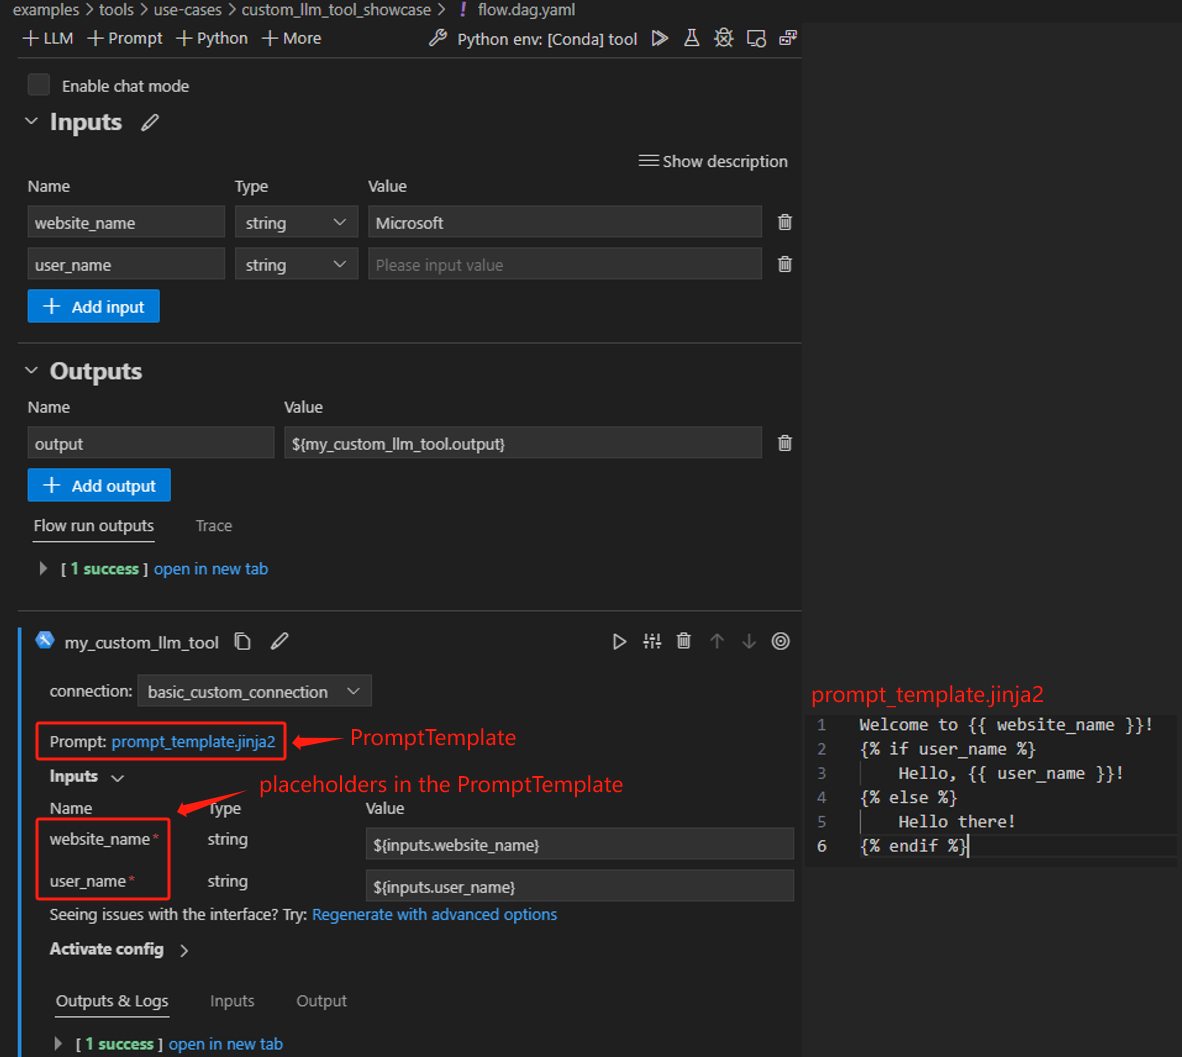
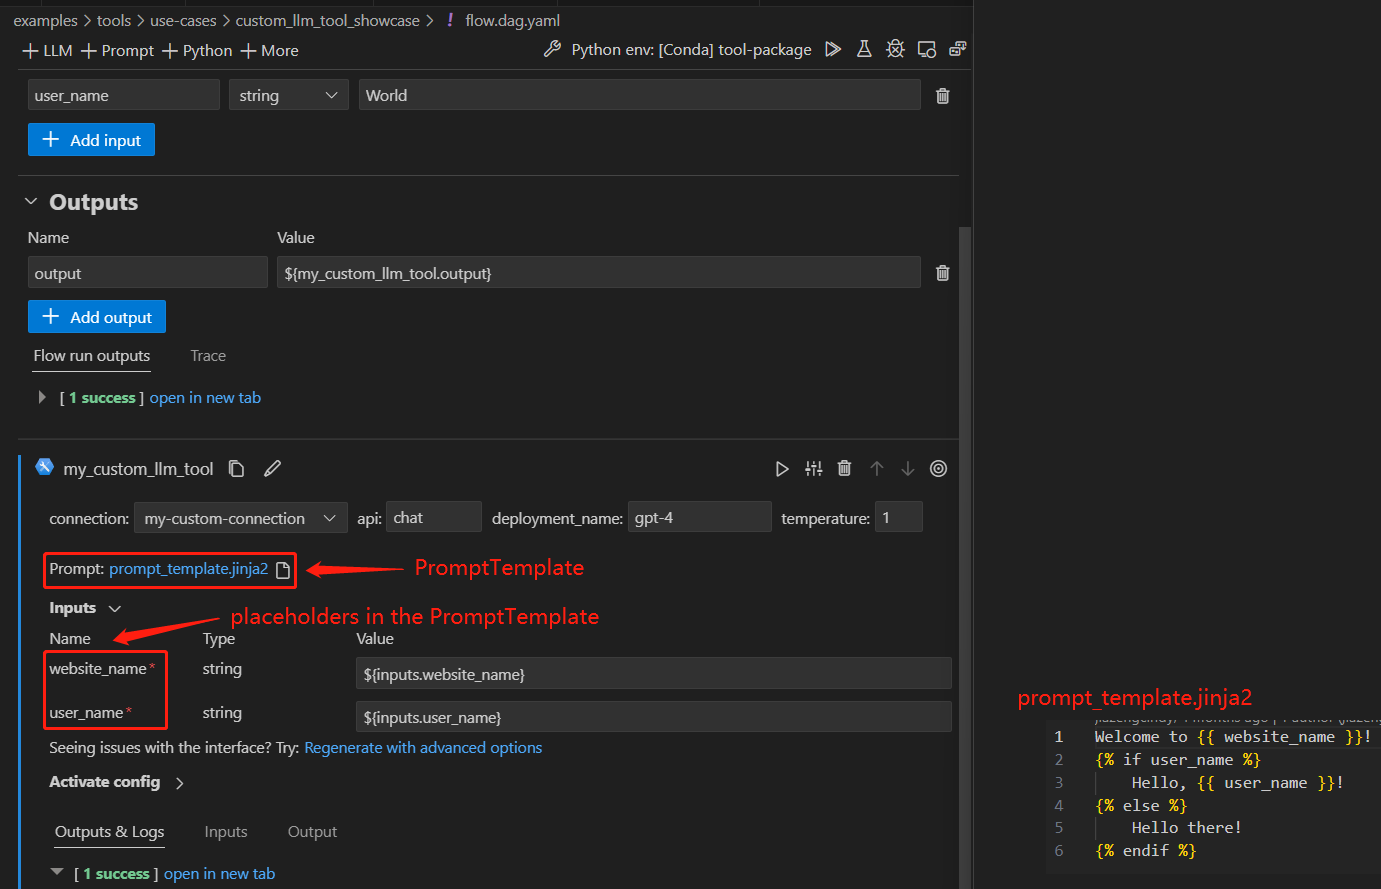
[Internal] Add doc for text box size and update the custom llm tool example (#1749)
# Description

Add doc for text box size and update the custom llm tool example.

# All Promptflow Contribution checklist:
- [X] **The pull request does not introduce [breaking changes].**
- [ ] **CHANGELOG is updated for new features, bug fixes or other
significant changes.**
- [X] **I have read the [contribution guidelines](../CONTRIBUTING.md).**
- [ ] **Create an issue and link to the pull request to get dedicated
review from promptflow team. Learn more: [suggested
workflow](../CONTRIBUTING.md#suggested-workflow).**

## General Guidelines and Best Practices
- [X] Title of the pull request is clear and informative.
- [X] There are a small number of commits, each of which have an
informative message. This means that previously merged commits do not
appear in the history of the PR. For more information on cleaning up the
commits in your PR, [see this
page](https://github.com/Azure/azure-powershell/blob/master/documentation/development-docs/cleaning-up-commits.md).

### Testing Guidelines
- [ ] Pull request includes test coverage for the included changes.

---------

diff --git a/examples/tools/tool-package-quickstart/my_tool_package/tools/tool_with_custom_llm_type.py b/examples/tools/tool-package-quickstart/my_tool_package/tools/tool_with_custom_llm_type.py
@@ -5,7 +5,14 @@ from promptflow.contracts.types import PromptTemplate
 
 
 @tool
-def my_tool(connection: CustomConnection, prompt: PromptTemplate, **kwargs) -> str:
+def my_tool(
+    connection: CustomConnection,
+    api: str,
+    deployment_name: str,
+    temperature: float,
+    prompt: PromptTemplate,
+    **kwargs
+) -> str:
     # Replace with your tool code, customise your own code to handle and use the prompt here.
     # Usually connection contains configs to connect to an API.
     # Not all tools need a connection. You can remove it if you don't need it.

diff --git a/examples/tools/tool-package-quickstart/tests/test_tool_with_custom_llm_type.py b/examples/tools/tool-package-quickstart/tests/test_tool_with_custom_llm_type.py
@@ -19,7 +19,13 @@ def my_custom_connection() -> CustomConnection:
 
 class TestToolWithCustomLLMType:
     def test_tool_with_custom_llm_type(self, my_custom_connection):
-        result = my_tool(my_custom_connection, "Hello {{text}}", text="Microsoft")
+        result = my_tool(
+            my_custom_connection,
+            "my-api",
+            "my-deployment-name",
+            0,
+            "Hello {{text}}",
+            text="Microsoft")
         assert result == "Hello Microsoft"
 
 

diff --git a/examples/tools/tool-package-quickstart/setup.py b/examples/tools/tool-package-quickstart/setup.py
@@ -4,7 +4,7 @@ PACKAGE_NAME = "my-tools-package"
 
 setup(
     name=PACKAGE_NAME,
-    version="0.0.12",
+    version="0.0.13",
     description="This is my tools package",
     packages=find_packages(),
     entry_points={

diff --git a/docs/how-to-guides/develop-a-tool/customize_an_llm_tool.md b/docs/how-to-guides/develop-a-tool/customize_an_llm_tool.md
@@ -2,7 +2,7 @@
 In this document, we will guide you through the process of customizing an LLM tool, allowing users to seamlessly connect to a large language model with prompt tuning experience using a `PromptTemplate`.
 
 ## Prerequisites
-- Please ensure that your [Prompt flow for VS Code](https://marketplace.visualstudio.com/items?itemName=prompt-flow.prompt-flow) is updated to version 1.2.0 or later.
+- Please ensure that your [Prompt flow for VS Code](https://marketplace.visualstudio.com/items?itemName=prompt-flow.prompt-flow) is updated to version 1.8.0 or later.
 
 ## How to customize an LLM tool
 Here we use [an existing tool package](https://github.com/microsoft/promptflow/tree/main/examples/tools/tool-package-quickstart/my_tool_package) as an example. If you want to create your own tool, please refer to [create and use tool package](create-and-use-tool-package.md).  
@@ -19,8 +19,17 @@ Here we use [an existing tool package](https://github.com/microsoft/promptflow/t
 
 
     @tool
-    def my_tool(connection: CustomConnection, prompt: PromptTemplate, **kwargs) -> str:
-        # Customize your own code to use the connection and prompt here.
+    def my_tool(
+        connection: CustomConnection,
+        api: str,
+        deployment_name: str,
+        temperature: float,
+        prompt: PromptTemplate,
+        **kwargs
+    ) -> str:
+        # Replace with your tool code, customise your own code to handle and use the prompt here.
+        # Usually connection contains configs to connect to an API.
+        # Not all tools need a connection. You can remove it if you don't need it.
         rendered_prompt = Template(prompt, trim_blocks=True, keep_trailing_newline=True).render(**kwargs)
         return rendered_prompt
     ```
@@ -30,7 +39,7 @@ Here we use [an existing tool package](https://github.com/microsoft/promptflow/t
     ```
     python <promptflow github repo>\scripts\tool\generate_package_tool_meta.py -m <tool_module> -o <tool_yaml_path> -t "custom_llm"
     ```
-    Here we use [an existing tool](https://github.com/microsoft/promptflow/blob/main/examples/tools/tool-package-quickstart/my_tool_package/yamls/tool_with_custom_llm_type.yaml) as an example.
+    Here we use [an existing tool](https://github.com/microsoft/promptflow/blob/main/examples/tools/tool-package-quickstart/my_tool_package/tools/tool_with_custom_llm_type.py) as an example.
     ```
     cd D:\proj\github\promptflow\examples\tools\tool-package-quickstart
 
@@ -47,9 +56,18 @@ Here we use [an existing tool package](https://github.com/microsoft/promptflow/t
     module: my_tool_package.tools.tool_with_custom_llm_type
     function: my_tool
     inputs:
-        connection:
+      connection:
         type:
-            - CustomConnection
+          - CustomConnection
+      api:
+        type:
+          - string
+      deployment_name:
+        type:
+          - string
+      temperature:
+        type:
+          - double
     ```
 
 ## Use the tool in VS Code
@@ -58,3 +76,46 @@ Follow the steps to [build and install your tool package](create-and-use-tool-pa
 Here we use an existing flow to demonstrate the experience, open [this flow](https://github.com/microsoft/promptflow/blob/main/examples/tools/use-cases/custom_llm_tool_showcase/flow.dag.yaml) in VS Code extension.  
 - There is a node named "my_custom_llm_tool" with a prompt template file. You can either use an existing file or create a new one as the prompt template file.  
 ![use_my_custom_llm_tool](../../media/how-to-guides/develop-a-tool/use_my_custom_llm_tool.png)
+
+## FAQs
+### Can I customize text box size for my tool inputs?
+Yes, you can add `ui_hints.text_box_size` field for your tool inputs. There are 4 sizes available which range from extra small to large as `xs`, `sm`, `md`, `lg`. The table below provides detailed information about these sizes:
+| Value | Description | UI display size |
+|-------|-------------|------|
+| xs | extra small | 40px |
+| sm | small | 80px |
+| md | medium | 130px |
+| lg | large | 180px |
+
+You can choose to use different values for your tool inputs based on their expected value length. Take the following yaml as example:
+```yaml
+my_tool_package.tools.tool_with_custom_llm_type.my_tool:
+  name: My Custom LLM Tool
+  description: This is a tool to demonstrate how to customize an LLM tool with a PromptTemplate.
+  type: custom_llm
+  module: my_tool_package.tools.tool_with_custom_llm_type
+  function: my_tool
+  inputs:
+    connection:
+      type:
+        - CustomConnection
+      ui_hints:
+        text_box_size: lg
+    api:
+      type:
+      - string
+      ui_hints:
+        text_box_size: sm
+    deployment_name:
+      type:
+      - string
+      ui_hints:
+        text_box_size: md
+    temperature:
+      type:
+      - double
+      ui_hints:
+        text_box_size: xs
+```
+When you use the tool in [this example flow](https://github.com/microsoft/promptflow/blob/main/examples/tools/use-cases/custom_llm_tool_showcase/flow.dag.yaml), you could see the sizes of the input text boxes are displayed as the set values.
+![use_custom_llm_tool_with_ui_hints](../../media/how-to-guides/develop-a-tool/use_custom_llm_tool_with_text_box_size.png)
